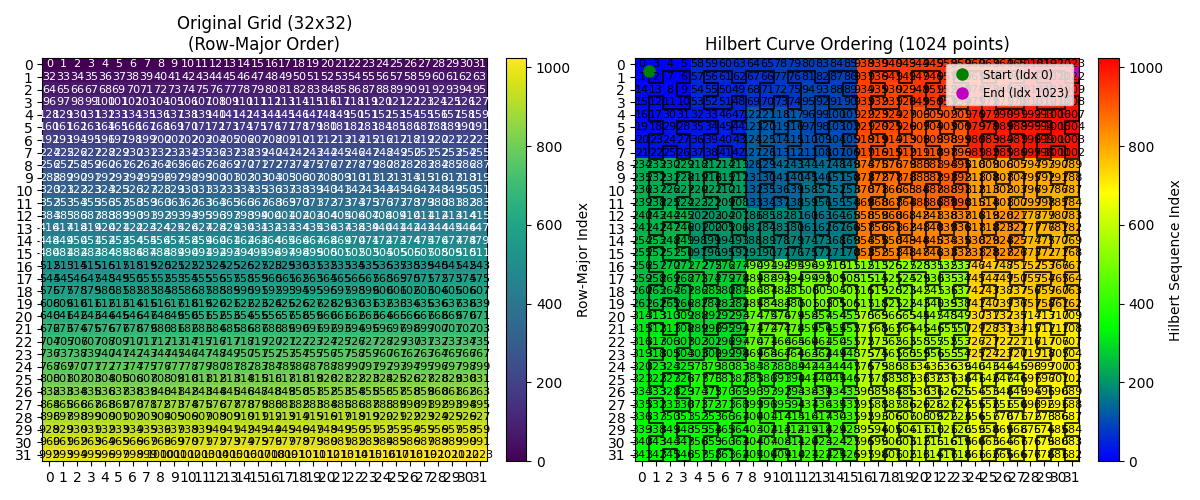
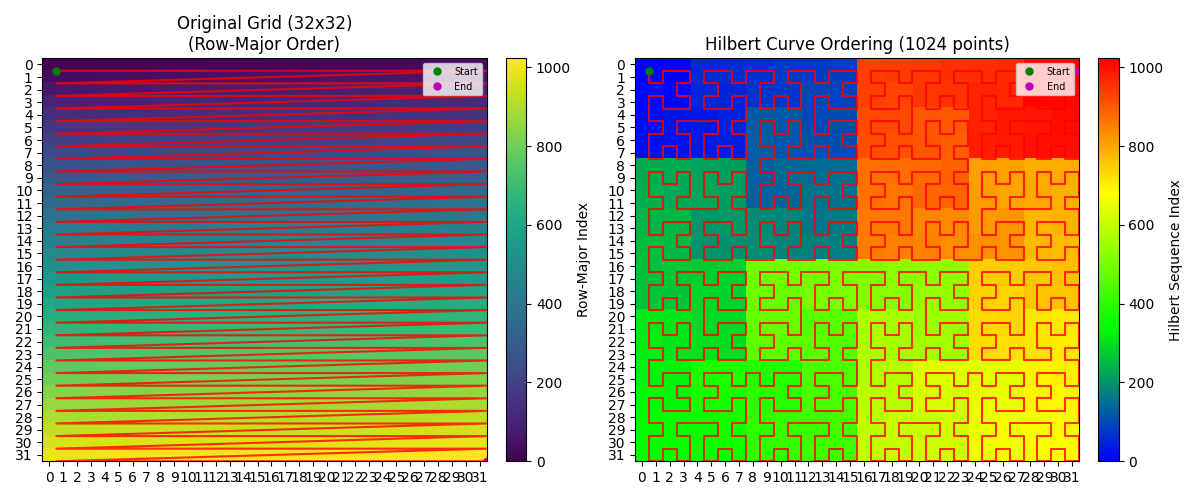
syncing changes

diff --git a/flaxdiff/models/hilbert.py b/flaxdiff/models/hilbert.py
@@ -241,7 +241,6 @@ def hilbert_unpatchify(x: jnp.ndarray, inv_idx: jnp.ndarray, patch_size: int, H:
     target_shape = (B, total_patches_expected, patch_dim)
 
     # Create indices for gathering from x (Hilbert order h) based on inv_idx (map k -> h)
-    # inv_idx contains the 'h' index for each 'k' index.
     # Clamp invalid indices (-1) to 0; we'll mask these results later.
     # Values must be < N (the actual number of patches in x).
     h_indices_for_gather = jnp.maximum(inv_idx, 0) # Shape [total_patches_expected]
@@ -320,15 +319,26 @@ def visualize_hilbert_curve(H: int, W: int, patch_size: int, figsize=(12, 5)):
     orig_grid = np.arange(H_P * W_P).reshape((H_P, W_P))
     im0 = axes[0].imshow(orig_grid, cmap='viridis', aspect='auto')
     axes[0].set_title(f"Original Grid ({H_P}x{W_P})\n(Row-Major Order)")
-    # Add text labels for indices
-    for r in range(H_P):
-        for c in range(W_P):
-            axes[0].text(c, r, f'{orig_grid[r, c]}', ha='center', va='center', color='white' if orig_grid[r,c] < (H_P*W_P)/2 else 'black', fontsize=8)
+    # Remove text labels for indices
     axes[0].set_xticks(np.arange(W_P))
     axes[0].set_yticks(np.arange(H_P))
     axes[0].set_xticklabels(np.arange(W_P))
     axes[0].set_yticklabels(np.arange(H_P))
     plt.colorbar(im0, ax=axes[0], fraction=0.046, pad=0.04, label="Row-Major Index")
+
+    # Draw the row-major scanning line
+    if H_P * W_P > 1:
+        row_major_coords_y = []
+        row_major_coords_x = []
+        for r_idx in range(H_P * W_P):
+            r = r_idx // W_P
+            c = r_idx % W_P
+            row_major_coords_y.append(r + 0.5) # Cell center
+            row_major_coords_x.append(c + 0.5) # Cell center
+        axes[0].plot(row_major_coords_x, row_major_coords_y, color='red', linestyle='-', linewidth=1.5, alpha=0.8)
+        axes[0].plot(row_major_coords_x[0], row_major_coords_y[0], 'go', markersize=5, label='Start') # Smaller marker
+        axes[0].plot(row_major_coords_x[-1], row_major_coords_y[-1], 'mo', markersize=5, label='End') # Smaller marker
+        axes[0].legend(fontsize='x-small')
 
     # --- Plot 2: Hilbert Curve Ordering ---
     # Mask unmapped cells for visualization
@@ -336,10 +346,10 @@ def visualize_hilbert_curve(H: int, W: int, patch_size: int, figsize=(12, 5)):
     im1 = axes[1].imshow(masked_grid, cmap=cmap, aspect='auto', vmin=0, vmax=max(0, len(idx)-1))
     axes[1].set_title(f"Hilbert Curve Ordering ({len(idx)} points)")
     # Add text labels for Hilbert indices
-    for r in range(H_P):
-        for c in range(W_P):
-            if grid[r,c] != -1:
-                axes[1].text(c, r, f'{int(grid[r, c])}', ha='center', va='center', color='black', fontsize=8)
+    # for r in range(H_P):
+    #     for c in range(W_P):
+    #         if grid[r,c] != -1:
+    #             axes[1].text(c, r, f'{int(grid[r, c])}', ha='center', va='center', color='black', fontsize=8)
     axes[1].set_xticks(np.arange(W_P))
     axes[1].set_yticks(np.arange(H_P))
     axes[1].set_xticklabels(np.arange(W_P))
@@ -355,22 +365,17 @@ def visualize_hilbert_curve(H: int, W: int, patch_size: int, figsize=(12, 5)):
         for i in range(len(idx)):
              if i in row_col_map:
                  coords.append(row_col_map[i])
-             # Fallback (slower):
-             # row_indices, col_indices = np.where(grid == i)
-             # if len(row_indices) > 0:
-             #     coords.append((row_indices[0], col_indices[0]))
 
         if coords:
              # Get coordinates for plotting (centers of cells)
-             y_coords = [r + 0.5 for r, c in coords]
-             x_coords = [c + 0.5 for r, c in coords]
-             axes[1].plot(x_coords, y_coords, color='black', linestyle='-', linewidth=1.5, alpha=0.8)
+             y_coords = [r + 0.5 for r, c in coords] # Cell center
+             x_coords = [c + 0.5 for r, c in coords] # Cell center
+             axes[1].plot(x_coords, y_coords, color='red', linestyle='-', linewidth=1.5, alpha=0.8) # Ensure Hilbert curve is red
              # Mark start point
-             axes[1].plot(x_coords[0], y_coords[0], 'go', markersize=8, label='Start (Idx 0)') # Green circle
+             axes[1].plot(x_coords[0], y_coords[0], 'go', markersize=5, label='Start') # Smaller marker
              # Mark end point
-             axes[1].plot(x_coords[-1], y_coords[-1], 'mo', markersize=8, label=f'End (Idx {len(idx)-1})') # Magenta circle
-             axes[1].legend(fontsize='small')
-
+             axes[1].plot(x_coords[-1], y_coords[-1], 'mo', markersize=5, label='End') # Smaller marker
+             axes[1].legend(fontsize='x-small')
 
     plt.tight_layout()
     return fig

diff --git a/README.md b/README.md
@@ -1,7 +1,5 @@
 # ![](images/logo.jpeg "FlaxDiff")
 
-**This project is being used for the UMD Course project MSML 605: MLOps**
-
 **This project is partially supported by [Google TPU Research Cloud](https://sites.research.google/trc/about/). I would like to thank the Google Cloud TPU team for providing me with the resources to train the bigger text-conditional models in multi-host distributed settings.**
 
 ## A Versatile and simple Diffusion Library
